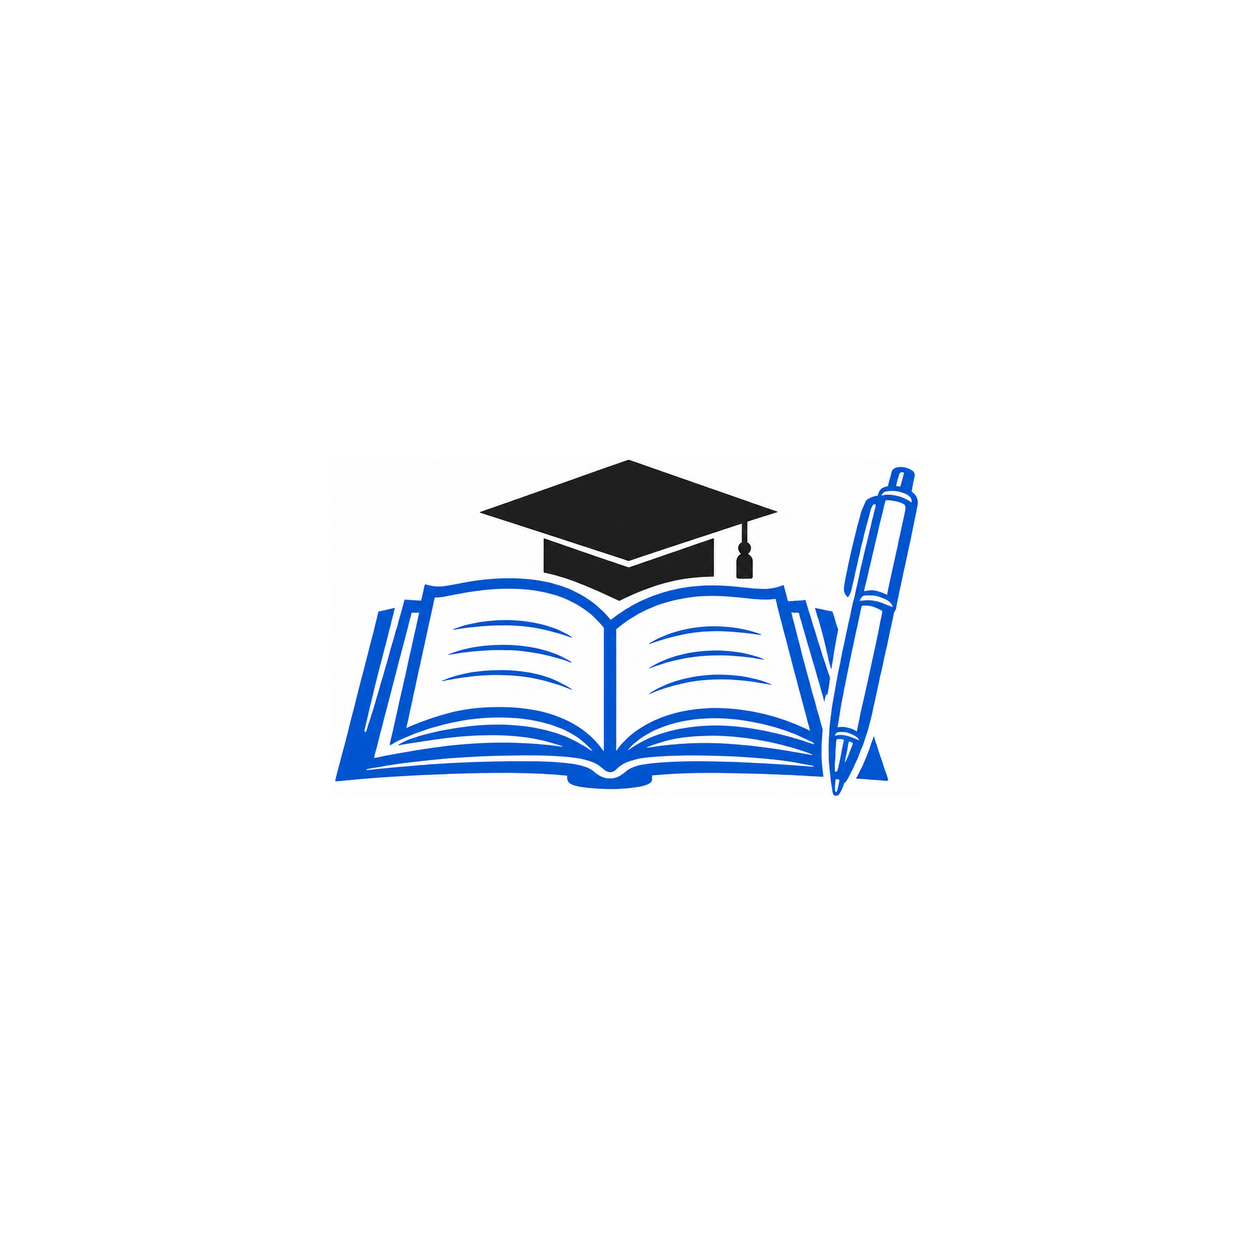
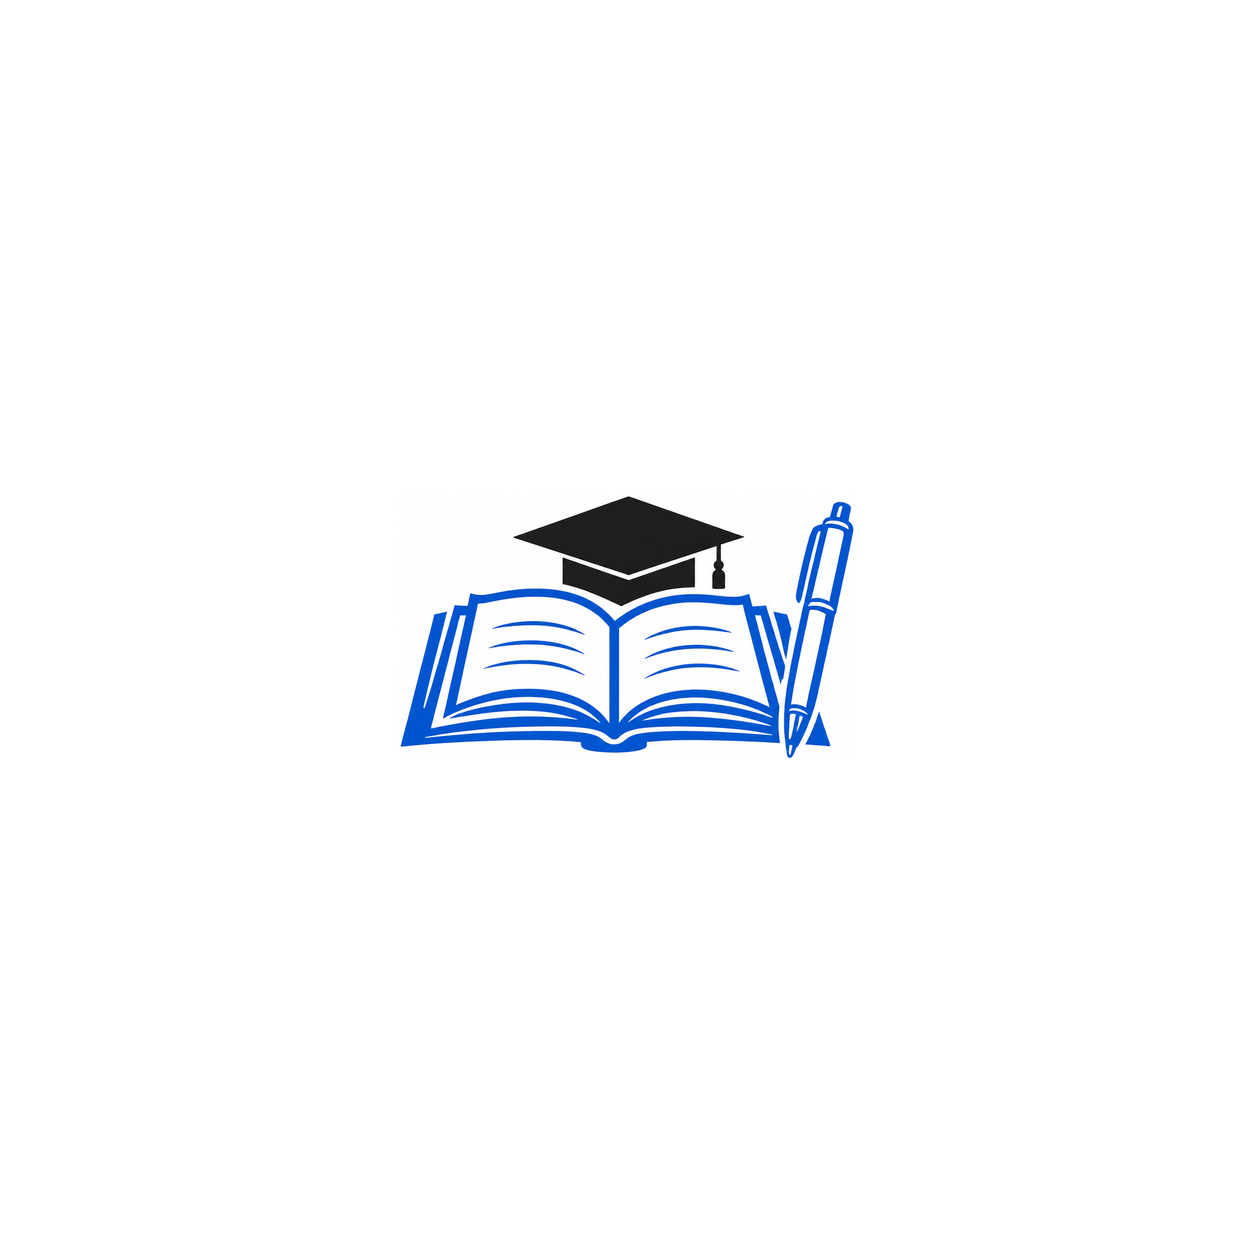
fix(mobile): harmonize launcher branding

Changed region(s): [[0.2488, 0.3732, 0.7464, 0.6531]]

diff --git a/Mobile/scripts/verify-mobile-branding.js b/Mobile/scripts/verify-mobile-branding.js
@@ -35,17 +35,20 @@ const CANONICAL = {
 const LAUNCHER = {
   iosIcon: {
     path: path.join(MOBILE, "assets", "somafrik-app-icon.png"),
-    gitBlobSha: "956e583e40246e109dc2a0838f5e8a1fddbc4c94",
+    gitBlobSha: "1b97e3d1b6cce3b8138b46c193e43fadb09898be",
     appJsonPath: "./assets/somafrik-app-icon.png",
   },
   androidForeground: {
     path: path.join(MOBILE, "assets", "somafrik-android-adaptive-foreground.png"),
-    gitBlobSha: "d7d79d5e2ca99d190686ef5d84ec73819446cb34",
+    gitBlobSha: "94f800bdc8a0f92297bf3514a05b799ac2688803",
     appJsonPath: "./assets/somafrik-android-adaptive-foreground.png",
   },
 };
 
 const ANDROID_SAFE_ZONE_RATIO = 66 / 108;
+const ANDROID_VIEWPORT_RATIO = 72 / 108;
+const ANDROID_TARGET_BOUNDING_CIRCLE = 0.42;
+const IOS_TARGET_WIDTH_RATIO = 0.50;
 const WHITE_THRESHOLD = 248;
 
 const LEGACY_MOBILE_ASSET_SHAS = new Set([
@@ -185,6 +188,13 @@ function contentMetrics(buffer) {
   const centerX = (minX + maxX) / 2;
   const centerY = (minY + maxY) / 2;
   const boundingCircle = Math.hypot(boxW, boxH) / width;
+  const padLeft = minX;
+  const padTop = minY;
+  const padRight = width - 1 - maxX;
+  const padBottom = height - 1 - maxY;
+  const minPadRatio = Math.min(padLeft, padTop, padRight, padBottom) / width;
+  const viewportInset = Math.round(width * (1 - ANDROID_VIEWPORT_RATIO) / 2);
+  const safeInset = Math.round(width * (1 - ANDROID_SAFE_ZONE_RATIO) / 2);
   return {
     width,
     height,
@@ -195,6 +205,17 @@ function contentMetrics(buffer) {
     centerOffsetX: (centerX - width / 2) / width,
     centerOffsetY: (centerY - height / 2) / height,
     boundingCircle,
+    minPadRatio,
+    insideViewport:
+      minX >= viewportInset
+      && minY >= viewportInset
+      && maxX < width - viewportInset
+      && maxY < height - viewportInset,
+    insideSafeZone:
+      minX >= safeInset
+      && minY >= safeInset
+      && maxX < width - safeInset
+      && maxY < height - safeInset,
   };
 }
 
@@ -258,16 +279,29 @@ function verifyMobileBranding() {
     LAUNCHER.androidForeground.gitBlobSha,
   );
   assert.ok(
-    ios.metrics.widthRatio >= 0.68 && ios.metrics.widthRatio <= 0.72,
-    `icône iOS: largeur du logo hors cible 70% (${(ios.metrics.widthRatio * 100).toFixed(2)}%)`,
+    ios.metrics.widthRatio >= IOS_TARGET_WIDTH_RATIO - 0.02
+      && ios.metrics.widthRatio <= IOS_TARGET_WIDTH_RATIO + 0.02,
+    `icône iOS: largeur du logo hors cible 50% (${(ios.metrics.widthRatio * 100).toFixed(2)}%)`,
+  );
+  assert.ok(
+    ios.metrics.insideViewport,
+    `icône iOS/legacy Android: logo hors viewport 72/108 (bounding ${(ios.metrics.boundingCircle * 100).toFixed(2)}%)`,
   );
   assert.ok(
     Math.abs(ios.metrics.centerOffsetX) < 0.01 && Math.abs(ios.metrics.centerOffsetY) < 0.01,
     "icône iOS: logo non centré",
   );
   assert.ok(
-    android.metrics.boundingCircle <= ANDROID_SAFE_ZONE_RATIO + 0.002,
-    `Android adaptive: bounding circle ${(android.metrics.boundingCircle * 100).toFixed(2)}% hors zone de sécurité 61.11%`,
+    android.metrics.boundingCircle <= ANDROID_TARGET_BOUNDING_CIRCLE + 0.01,
+    `Android adaptive: bounding circle ${(android.metrics.boundingCircle * 100).toFixed(2)}% au-dessus de la cible 42%`,
+  );
+  assert.ok(
+    android.metrics.insideSafeZone && android.metrics.insideViewport,
+    `Android adaptive: logo hors zone de sécurité (${(android.metrics.boundingCircle * 100).toFixed(2)}%)`,
+  );
+  assert.ok(
+    android.metrics.minPadRatio >= 0.28,
+    `Android adaptive: padding insuffisant (${(android.metrics.minPadRatio * 100).toFixed(2)}%)`,
   );
   assert.ok(
     Math.abs(android.metrics.centerOffsetX) < 0.01 && Math.abs(android.metrics.centerOffsetY) < 0.01,

diff --git a/Mobile/scripts/verify-mobile-preview-apk.js b/Mobile/scripts/verify-mobile-preview-apk.js
@@ -191,7 +191,7 @@ function main() {
   }
 
   assert.equal(PREVIEW_API, "https://somafrik-api-preprod.onrender.com");
-  assert.equal(DISPLAY_NAMES.preview, "Somafrik QA");
+  assert.equal(DISPLAY_NAMES.preview, "Somafrik");
   assert.equal(ANDROID_PACKAGE, "com.somafrik.app");
   assert.equal(APP_SLUG, "somafrik");
 
@@ -233,7 +233,7 @@ function main() {
   assert.match(badge, /testID="environment-badge"/);
   const appTsx = read(path.join(MOBILE, "App.tsx"));
   assert.match(appTsx, /<EnvironmentBadge\s*\/>/);
-  console.log("OK: UX Preview — nom Somafrik QA + badge environnement visible");
+  console.log("OK: UX Preview — nom launcher Somafrik + badge environnement visible");
 
   const expoConfig = run("npx", ["expo", "config", "--type", "public", "--json"], {
     env: {
@@ -247,7 +247,7 @@ function main() {
     },
   });
   const publicConfig = parseExpoConfigJson(expoConfig.stdout);
-  assert.equal(publicConfig.name, "Somafrik QA");
+  assert.equal(publicConfig.name, "Somafrik");
   assert.equal(publicConfig.slug, APP_SLUG);
   assert.equal(publicConfig.android.package, ANDROID_PACKAGE);
   assert.equal(publicConfig.extra.apiUrl, PREVIEW_API);
@@ -257,7 +257,7 @@ function main() {
   assert.equal(publicConfig.extra.showEnvironmentBadge, true);
   assert.equal(publicConfig.extra.eas.projectId, EXPO_PROJECT_ID);
   assert.notEqual(publicConfig.updates?.enabled, true);
-  console.log("OK: expo config public preview — Somafrik QA / HTTPS préprod / badge");
+  console.log("OK: expo config public preview — Somafrik / HTTPS préprod / badge");
 
   const pkg = JSON.parse(read(path.join(MOBILE, "package.json")));
   assert.equal(pkg.scripts["build:preview"], "eas build --platform android --profile preview");
@@ -275,7 +275,9 @@ function main() {
   assert.match(docs, /eas whoami/);
   assert.match(docs, /eas project:info/);
   assert.match(docs, /eas build --platform android --profile preview/);
-  assert.match(docs, /Somafrik QA/);
+  assert.match(docs, /Nom affiché \| \*\*Somafrik\*\*/);
+  assert.match(docs, /Badge \| \*\*Preview QA\*\*/);
+  assert.doesNotMatch(docs, /lanceur doit afficher \*\*Somafrik QA\*\*/);
   assert.match(docs, /somafrik-api-preprod\.onrender\.com/);
   assert.match(docs, /ne constitue pas un service Render/);
   assert.match(docs, /BLOCKED_EAS_AUTH|eas login/);

diff --git a/Mobile/config/releaseEnvironments.test.js b/Mobile/config/releaseEnvironments.test.js
@@ -27,11 +27,11 @@ assert.equal(ANDROID_PACKAGE, "com.somafrik.app");
 assert.equal(APP_VERSION, "1.2.1");
 assert.equal(ANDROID_VERSION_CODE, 13);
 assert.ok(Number.isInteger(ANDROID_VERSION_CODE) && ANDROID_VERSION_CODE > 0);
-assert.equal(DISPLAY_NAMES.preview, "Somafrik QA");
-assert.equal(DISPLAY_NAMES.preproduction, "Somafrik Préprod");
-assert.equal(DISPLAY_NAMES.production, "Somafrik");
-assert.equal(DISPLAY_NAMES.development, "Somafrik");
-assert.doesNotMatch(DISPLAY_NAMES.production, /SchoolLink|Expo App|Somafrik Dev/);
+for (const profile of RELEASE_PROFILES) {
+  assert.equal(DISPLAY_NAMES[profile], "Somafrik", `${profile}: nom launcher doit être Somafrik`);
+  assert.doesNotMatch(DISPLAY_NAMES[profile], /QA|Préprod|Preprod|Dev|Preview/i);
+}
+assert.doesNotMatch(DISPLAY_NAMES.production, /SchoolLink|Expo App/);
 
 assert.equal(resolveReleaseProfile({ EXPO_PUBLIC_RELEASE_PROFILE: "preproduction" }), "preproduction");
 assert.equal(resolveReleaseProfile({ EAS_BUILD_PROFILE: "production" }), "production");

diff --git a/Mobile/config/releaseEnvironments.js b/Mobile/config/releaseEnvironments.js
@@ -20,10 +20,11 @@ const APP_SCHEME = "somafrik";
 const APP_VERSION = "1.2.1";
 const ANDROID_VERSION_CODE = 13;
 
+/** Nom launcher identique partout. L'environnement se distingue par le badge in-app. */
 const DISPLAY_NAMES = {
   development: "Somafrik",
-  preview: "Somafrik QA",
-  preproduction: "Somafrik Préprod",
+  preview: "Somafrik",
+  preproduction: "Somafrik",
   production: "Somafrik",
 };
 

diff --git a/Mobile/scripts/generate-launcher-icons.py b/Mobile/scripts/generate-launcher-icons.py
@@ -6,7 +6,8 @@ white square so Android adaptive masks (circle, squircle, rounded square) and
 iOS rounded corners keep the full symbol visible.
 
 Android adaptive icons are 108dp with a 66dp-diameter safe zone. The
-foreground asset therefore uses a tighter layout than the iOS icon.
+foreground asset is more padded than the iOS icon. Expo `icon` is also the
+Android legacy fallback, so the iOS asset itself must survive a circle mask.
 """
 
 from __future__ import annotations
@@ -16,17 +17,20 @@ import math
 import sys
 from pathlib import Path
 
-from PIL import Image, ImageDraw
+from PIL import Image, ImageDraw, ImageFont
 
 ROOT = Path(__file__).resolve().parents[2]
 CANONICAL_MARK = ROOT / "logo without text.png"
 ASSETS = ROOT / "Mobile" / "assets"
 
-# Expo / iOS: full-bleed square; keep modest inset so the mark is not edge-to-edge.
-IOS_CONTENT_WIDTH_RATIO = 0.70
-# Android: bounding circle of the mark, as a fraction of the 108dp canvas.
-# Safe zone is 66/108 ≈ 0.611; 0.54 leaves margin inside every OEM mask.
-ANDROID_BOUNDING_CIRCLE_RATIO = 0.54
+# Expo `icon` is also the Android legacy / Play fallback. A 70% wide mark has a
+# bounding circle ~81% and is cropped by circle / squircle launcher masks.
+# Target ~50% width so the square asset still fits the 72/108 Android viewport.
+IOS_CONTENT_WIDTH_RATIO = 0.50
+# Android adaptive: 108dp canvas, 72dp viewport, 66dp-diameter safe zone.
+# 0.54 still looked cropped on OEM launchers (extra inset on top of the mask).
+# 0.42 keeps the full mark inside aggressive circular crops.
+ANDROID_BOUNDING_CIRCLE_RATIO = 0.42
 WHITE_THRESHOLD = 248
 WHITE = (255, 255, 255)
 SAFE_ZONE_RATIO = 66 / 108
@@ -178,6 +182,40 @@ def build_previews(
     new_android_circle.save(preview_dir / "after-android-circle.png")
     new_android_round.save(preview_dir / "after-android-rounded-square.png")
     guide.save(preview_dir / "after-android-safe-zone-guide.png")
+    build_launcher_home(android_fg, preview_dir / "after-android-launcher-home.png")
+
+
+def build_launcher_home(android_fg: Image.Image, dest: Path) -> None:
+    """Simulate a Pixel-style launcher tile: circular adaptive icon + label."""
+    tile = 208
+    canvas_w, canvas_h = 512, 400
+    wallpaper = (32, 33, 36)
+    home = Image.new("RGB", (canvas_w, canvas_h), wallpaper)
+    icon_resized = android_fg.resize((tile, tile), Image.Resampling.LANCZOS)
+    mask = circle_mask(tile)
+    circular = icon_resized.convert("RGBA")
+    circular.putalpha(mask)
+    left = (canvas_w - tile) // 2
+    top = 64
+    home_rgba = home.convert("RGBA")
+    home_rgba.alpha_composite(circular.convert("RGBA"), (left, top))
+    home = home_rgba.convert("RGB")
+    draw = ImageDraw.Draw(home)
+    label = "Somafrik"
+    font = None
+    for candidate in (
+        Path("/usr/share/fonts/truetype/dejavu/DejaVuSans.ttf"),
+        Path("/usr/share/fonts/truetype/liberation/LiberationSans-Regular.ttf"),
+    ):
+        if candidate.exists():
+            font = ImageFont.truetype(str(candidate), 28)
+            break
+    if font is None:
+        font = ImageFont.load_default()
+    bbox = draw.textbbox((0, 0), label, font=font)
+    text_w = bbox[2] - bbox[0]
+    draw.text(((canvas_w - text_w) // 2, top + tile + 18), label, fill=(248, 250, 252), font=font)
+    home.save(dest, format="PNG", optimize=True)
 
 
 def main() -> int:

diff --git a/docs/mobile/PREVIEW-APK.md b/docs/mobile/PREVIEW-APK.md
@@ -1,4 +1,4 @@
-# Somafrik QA — APK Preview Android (Expo / EAS)
+# Somafrik — APK Preview Android (Expo / EAS)
 
 PR Draft uniquement. **Aucun `eas submit`. Aucun upload Google Play. Aucun merge Ready.**
 
@@ -7,7 +7,7 @@ Render héberge l’API et le Web. Le Mobile Preview est distribué via Expo/EAS
 Cible :
 
 ```text
-Somafrik QA
+Somafrik
    ↓
 APK Android Preview (distribution interne)
    ↓
@@ -28,7 +28,7 @@ PostgreSQL préproduction
 | Distribution | `internal` |
 | Plateforme | Android |
 | Artefact | **APK** (`buildType: apk`) |
-| Nom affiché | **Somafrik QA** |
+| Nom affiché | **Somafrik** |
 | Badge | **Preview QA** (jamais en production) |
 | Package | `com.somafrik.app` |
 | Slug Expo | `somafrik` |
@@ -41,7 +41,7 @@ PostgreSQL préproduction
 
 Fail-closed : si le profil `preview` est mal configuré, `app.config.js` et `verify:mobile-preview-apk` échouent.
 
-Le package Android est **le même** que Production (`com.somafrik.app`). Android refuse d’installer deux APK du même package signés différemment. Désinstaller l’app Play / production **avant** d’installer Somafrik QA.
+Le package Android est **le même** que Production (`com.somafrik.app`). Android refuse d’installer deux APK du même package signés différemment. Désinstaller l’app Play / production **avant** d’installer l’APK Preview. L’environnement Preview se distingue par le badge in-app **Preview QA**, pas par le nom launcher.
 
 ## CNG
 
@@ -113,18 +113,18 @@ Sur le téléphone :
 2. Autoriser le navigateur (Chrome) **ou** l’application Fichiers utilisée pour ouvrir l’APK.
 3. Confirmer l’avertissement Android (sideload).
 
-## 4. Installer Somafrik QA
+## 4. Installer l’APK Preview
 
 1. Désinstaller toute app `com.somafrik.app` déjà présente (Play / autre signature).
 2. Ouvrir l’APK téléchargé → Installer.
-3. Le lanceur doit afficher **Somafrik QA** (pas « Somafrik » production).
+3. Le lanceur doit afficher **Somafrik** (pas « Somafrik QA » ni « Somafrik Préprod »).
 4. Au lancement, le badge **Preview QA** doit être visible.
 
 ## 5. Vérifier l’API préprod
 
 Contrôles attendus :
 
-- Nom : Somafrik QA
+- Nom : Somafrik
 - Badge : Preview QA
 - Login : identifiants **préproduction** uniquement (pas de PIN démo, pas de comptes production)
 - L’app ne doit pas joindre `https://api.somafrik.app`

diff --git a/docs/mobile/RELEASE-READINESS.md b/docs/mobile/RELEASE-READINESS.md
@@ -15,15 +15,15 @@ Inventaire **avant** retrait (LOT 7) :
 
 Stratégie : **Continuous Native Generation**. `android/` et `ios/` sont gitignorés. EAS Build et `npx expo prebuild --platform android` régénèrent le natif à partir de la config + plugins (permissions, backup, network security, cleartext). Plus de mode hybride involontaire : EAS n’ignore plus `app.config.js` à cause d’un `android/` commité.
 
-Package Android **stable** : `com.somafrik.app` (identique préprod / prod). Même listing Play, tracks différents. Préproduction identifiable par le nom affiché `Somafrik Préprod` + badge in-app. Pas de changement de package.
+Package Android **stable** : `com.somafrik.app` (identique préprod / prod). Même listing Play, tracks différents. Préproduction identifiable par le badge in-app **Préproduction**, pas par le nom launcher (`Somafrik` partout). Pas de changement de package.
 
 ## 4 environnements
 
 | Profil | API | Package | Nom affiché | Distribution | Artefact | Google Play |
 | ------ | --- | ------- | ----------- | ------------ | -------- | ----------- |
 | development | `EXPO_PUBLIC_API_URL` / LAN (HTTP local autorisé) | `com.somafrik.app` | Somafrik + badge Développement | internal | APK / dev client | Non |
-| preview | `https://somafrik-api-preprod.onrender.com` | `com.somafrik.app` | Somafrik QA + badge | internal | APK | Non — voir [PREVIEW-APK.md](./PREVIEW-APK.md) |
-| **preproduction** | **`https://somafrik-api-preprod.onrender.com`** (Render, déjà dans `docs/preproduction.md`) | `com.somafrik.app` | Somafrik Préprod + badge | store | **AAB** | **Internal testing** |
+| preview | `https://somafrik-api-preprod.onrender.com` | `com.somafrik.app` | Somafrik + badge Preview QA | internal | APK | Non — voir [PREVIEW-APK.md](./PREVIEW-APK.md) |
+| **preproduction** | **`https://somafrik-api-preprod.onrender.com`** (Render, déjà dans `docs/preproduction.md`) | `com.somafrik.app` | Somafrik + badge Préproduction | store | **AAB** | **Internal testing** |
 | production | `https://api.somafrik.app` | `com.somafrik.app` | Somafrik | store | AAB | Production |
 
 Preview et préproduction partagent l’API Render préprod : **aucune URL QA distincte n’existe dans le dépôt**. La séparation Play vs APK interne reste obligatoire. `preproduction ≠ production`.

diff --git a/docs/mobile/L10-APK-RC1-SMOKE.md b/docs/mobile/L10-APK-RC1-SMOKE.md
@@ -30,7 +30,7 @@ Identité APK :
 | ----- | ------ |
 | Profil EAS | `preview` |
 | Artefact | APK interne |
-| Nom lanceur | **Somafrik QA** |
+| Nom lanceur | **Somafrik** |
 | Badge | **Preview QA** |
 | Package | `com.somafrik.app` |
 | Comptes | préproduction uniquement |
@@ -65,7 +65,7 @@ Si un NO-GO est constaté : **stop terrain**, ticket P0/P1, pas de poursuite des
 1. Humain : `eas login` dans `Mobile/` (cette VM Cloud n’a pas `EXPO_TOKEN`).
 2. `eas whoami` puis `eas project:info` (projectId `47b217aa-3d96-4d50-a9f5-fc0ec8a3cef5`).
 3. `eas build --platform android --profile preview` — attendre **finished**.
-4. Télécharger l’APK, **désinstaller** toute `com.somafrik.app` (Play / autre signature), installer **Somafrik QA**.
+4. Télécharger l’APK, **désinstaller** toute `com.somafrik.app` (Play / autre signature), installer l’APK Preview (**Somafrik**).
 5. Confirmer le badge **Preview QA** et le texte login `API : https://somafrik-api-preprod.onrender.com/api`.
 
 Interdit : `eas submit`, Play, PIN démo, comptes production.
@@ -86,7 +86,7 @@ Cocher uniquement après observation téléphone. `—` = non applicable au rôl
 
 | # | Contrôle | Admin School | Directeur / Préfet | Enseignant | NO-GO si |
 | - | -------- | ------------ | ------------------ | ---------- | -------- |
-| C1 | Lanceur **Somafrik QA**, badge **Preview QA** | | | | Nom prod / pas de badge |
+| C1 | Lanceur **Somafrik**, badge **Preview QA** | | | | Nom ≠ Somafrik / pas de badge |
 | C2 | Login préprod OK, session persistée, Home après `permissionsBootstrap ready` | | | | Login impossible / Home avant ready |
 | C3 | Texte API = préprod HTTPS, pas `api.somafrik.app` | | | | Mauvaise préprod |
 | C4 | Rôle / libellé cohérents avec le compte (pas de Super Admin fantôme) | | | | Identité reconstruite |

diff --git a/docs/mobile/E2E-RUNTIME-QA.md b/docs/mobile/E2E-RUNTIME-QA.md
@@ -50,7 +50,7 @@ Profil attendu (voir `docs/mobile/PREVIEW-APK.md`) :
 ```text
 preview
 package = com.somafrik.app
-display = Somafrik QA
+display = Somafrik
 API = https://somafrik-api-preprod.onrender.com
 ```
 
